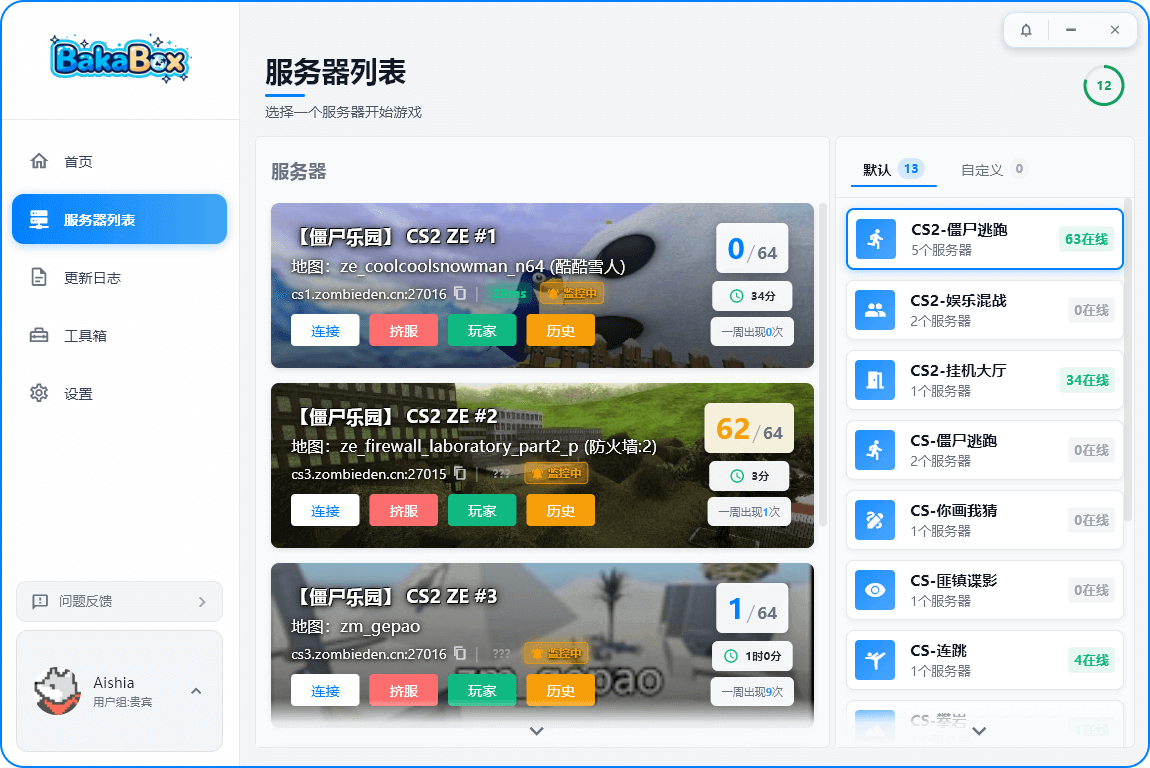
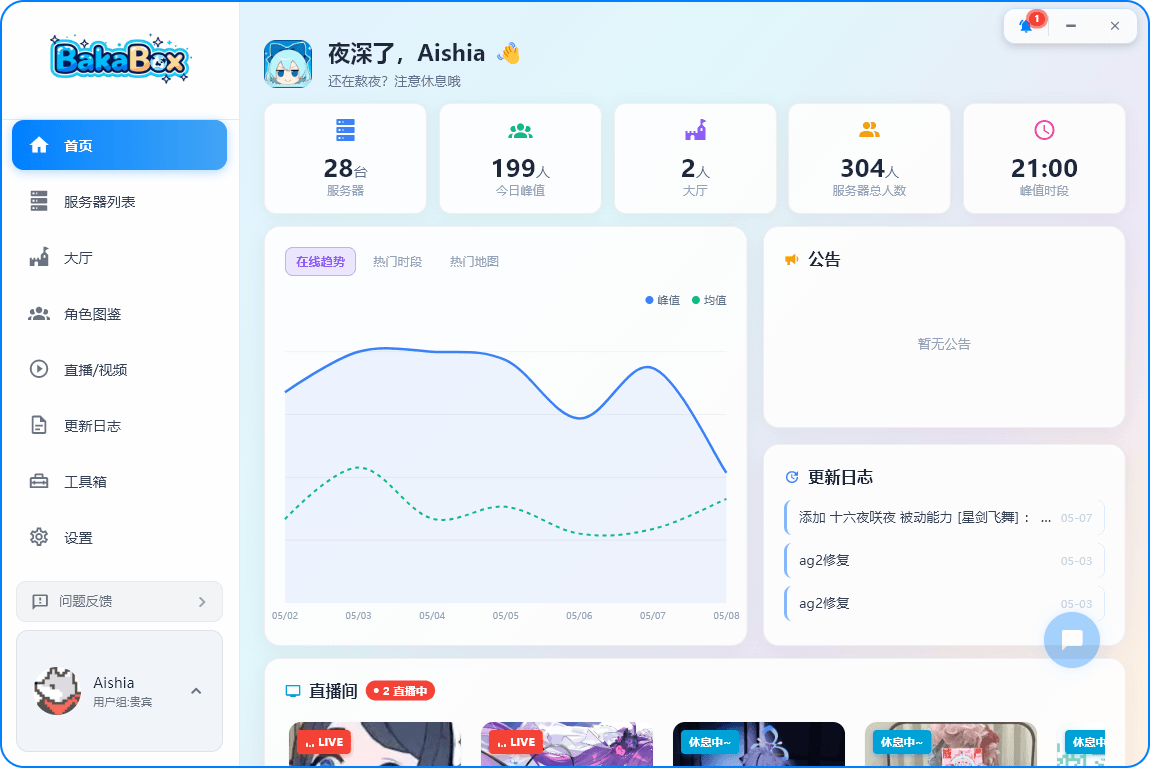
feat(onboarding): 更新素材和登录界面布局

diff --git a/lib/desktop/screens/onboarding_screen.dart b/lib/desktop/screens/onboarding_screen.dart
@@ -1191,7 +1191,7 @@ class _OnboardingScreenState extends State<OnboardingScreen> {
               const SizedBox(height: 12),
               // 获取验证码按钮
               SizedBox(
-                height: 48,
+                height: 36,
                 child: OutlinedButton.icon(
                   onPressed: _isLoggingIn ? null : _handleGetCaptcha,
                   icon: Icon(
@@ -1220,7 +1220,7 @@ class _OnboardingScreenState extends State<OnboardingScreen> {
               const SizedBox(height: 12),
               // 登录按钮
               SizedBox(
-                height: 48,
+                height: 36,
                 child: ElevatedButton(
                   onPressed:
                       (_isLoggingIn ||
@@ -1258,7 +1258,7 @@ class _OnboardingScreenState extends State<OnboardingScreen> {
               ),
               // QQ 登录（仅 Windows）
               if (Platform.isWindows) ...[
-                const SizedBox(height: 16),
+                const SizedBox(height: 5),
                 Row(
                   children: [
                     Expanded(child: Divider(color: borderColor)),
@@ -1275,9 +1275,9 @@ class _OnboardingScreenState extends State<OnboardingScreen> {
                     Expanded(child: Divider(color: borderColor)),
                   ],
                 ),
-                const SizedBox(height: 16),
+                const SizedBox(height: 5),
                 SizedBox(
-                  height: 48,
+                  height: 36,
                   child: OutlinedButton.icon(
                     onPressed: _isLoggingIn
                         ? null